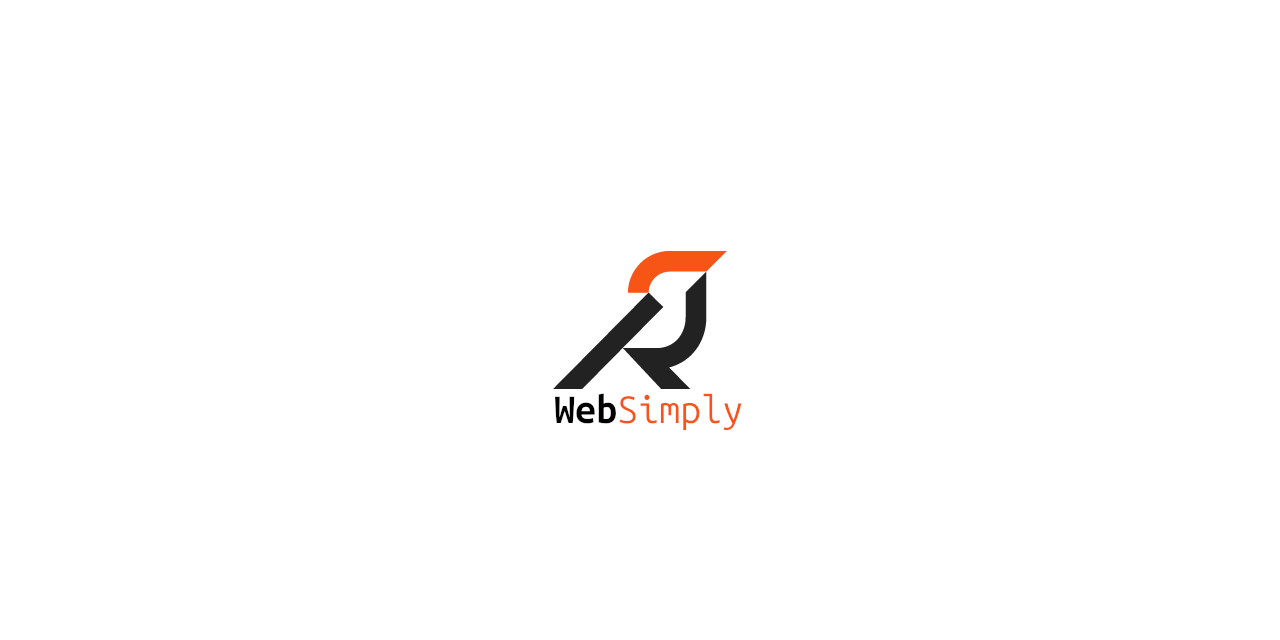
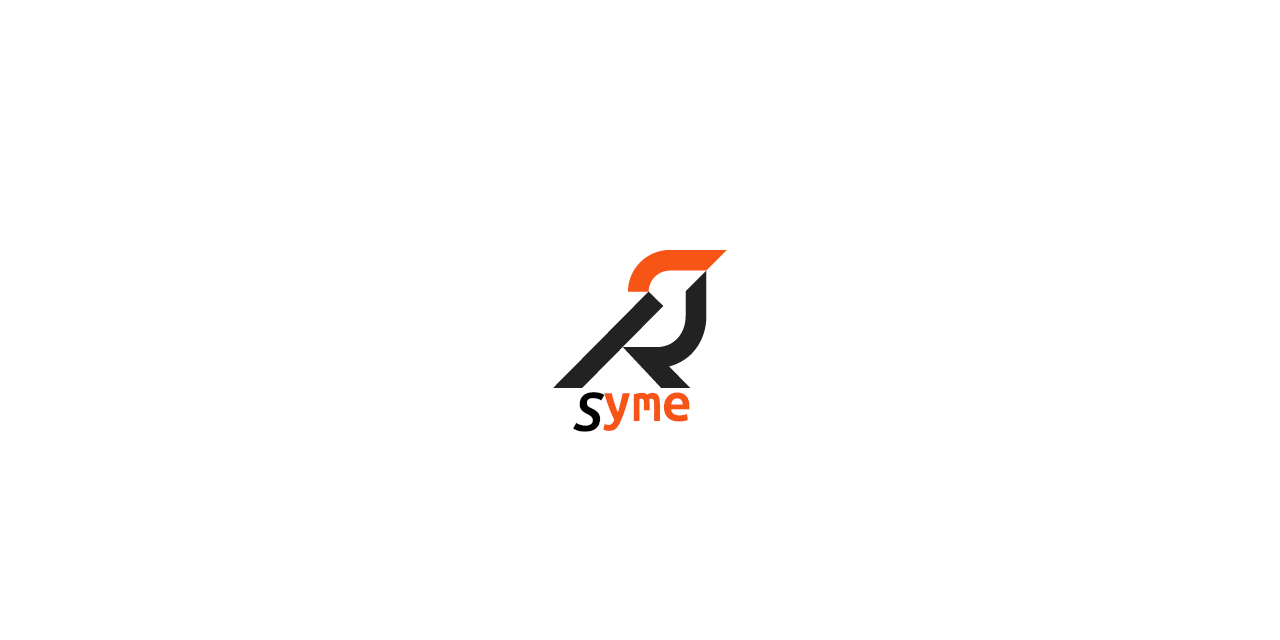
Améliorations légères v1

Changed region(s): [[0.4062, 0.5938, 0.5938, 0.6875], [0.5312, 0.4062, 0.5625, 0.4375], [0.4688, 0.5312, 0.5, 0.5625]]

diff --git a/core.php b/core.php
@@ -78,6 +78,9 @@ startSession();
 
 $import = function (array $directories) {
     foreach ($directories as $directory) {
+        $dir = __DIR__ . DIRECTORY_SEPARATOR . $directory;
+        if (!is_dir($dir) || !is_readable($dir)) continue;
+
         $subd = new \RecursiveDirectoryIterator(__DIR__ . DIRECTORY_SEPARATOR . $directory);
         $iterator = new \RecursiveIteratorIterator($subd);
         $files = new \RegexIterator($iterator, '/^.+\.(php|inc)$/i', RegexIterator::MATCH);

diff --git a/README.md b/README.md
@@ -43,3 +43,11 @@ Route::before('article', function(Request $request, Response $response, Data $da
     $data->set('who am i ?', "I'm a midlleware ;-)");
 });
 ```
+
+<br /><br />
+<div style="text-align: center;">
+
+![Syme](./Syme.png)
+
+</div>
+<br />
